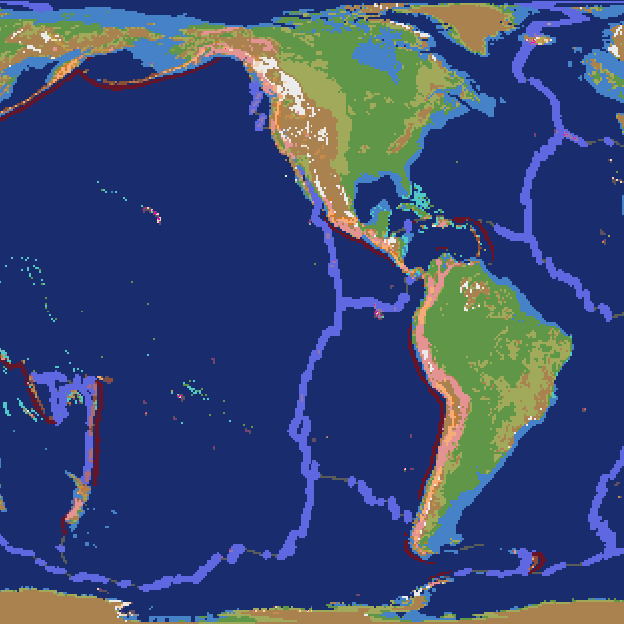
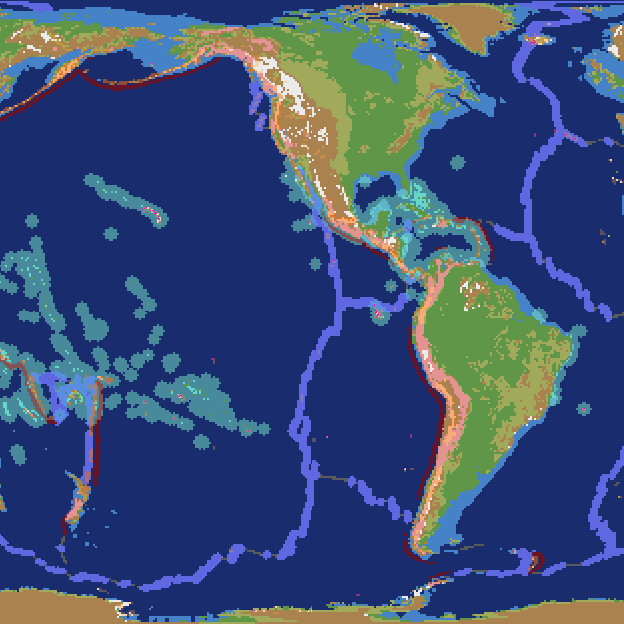
fix: ocean atolls

diff --git a/src/main/java/net/yazloysasha/tfcrealworld/mixin/world/region/ChooseBiomesMixin.java b/src/main/java/net/yazloysasha/tfcrealworld/mixin/world/region/ChooseBiomesMixin.java
@@ -9,6 +9,7 @@ import net.dries007.tfc.world.region.Region;
 import net.dries007.tfc.world.region.RegionGenerator;
 import net.yazloysasha.tfcrealworld.util.registry.TectonicsRegistry;
 import net.yazloysasha.tfcrealworld.world.region.cache.GlobalOceanDistanceCache;
+import net.yazloysasha.tfcrealworld.world.tectonics.TectonicsMap;
 import net.yazloysasha.tfcrealworld.world.volcano.CenteredFeatureAligner;
 import org.objectweb.asm.Opcodes;
 import org.spongepowered.asm.mixin.Mixin;
@@ -21,8 +22,8 @@ import org.spongepowered.asm.mixin.injection.callback.CallbackInfo;
 /**
  * Vanilla ChooseBiomes picks every biome from the region-point fields written
  * from the maps. Adjusted inputs: hotspot shields stay off the ocean (sunken
- * shields may also cover ocean ridges), and coastal decisions read distances
- * in grid cells.
+ * shields may also cover ocean ridges), coastal decisions read distances in
+ * grid cells, and atolls stand where the tectonics map has coral reefs.
  */
 @Mixin(value = ChooseBiomes.class, remap = false)
 public class ChooseBiomesMixin {
@@ -121,6 +122,33 @@ public class ChooseBiomesMixin {
   )
   private byte tfcrealworld$saltMarshDistanceToOcean(Region.Point point) {
     return tfcrealworld$gridCellsToOcean(point);
+  }
+
+  /**
+   * Vanilla builds atolls in warm sea far enough from land, which on a real
+   * map is nearly all of the tropical ocean and almost none of its shelf. With
+   * tectonics the distance check is replaced by the {@code atolls} property:
+   * the sea where coral reefs stand. Vanilla still asks for warm water.
+   */
+  @Redirect(
+    method = "apply",
+    at = @At(
+      value = "FIELD",
+      target = "Lnet/dries007/tfc/world/region/Region$Point;distanceToLand:B",
+      opcode = Opcodes.GETFIELD
+    )
+  )
+  private byte tfcrealworld$atollDistanceToLand(
+    Region.Point point,
+    @Local(argsOnly = true) RegionGenerator.Context context
+  ) {
+    final TectonicsMap tectonics = TectonicsRegistry.get(context.generator());
+    if (tectonics == null) {
+      return point.distanceToLand;
+    }
+    return tectonics.classAtGrid(point.x, point.z).atolls()
+      ? Byte.MAX_VALUE
+      : 0;
   }
 
   @Unique

diff --git a/src/main/java/net/yazloysasha/tfcrealworld/world/tectonics/TectonicClass.java b/src/main/java/net/yazloysasha/tfcrealworld/world/tectonics/TectonicClass.java
@@ -9,6 +9,8 @@ import java.util.Locale;
  * region-point fields and vanilla {@code ChooseBiomes} picks the biome.
  * {@link #coast}: the sea reaches into the place (fjords, rias, outlet
  * glaciers, steep island coasts).
+ * {@link #atolls}: coral reefs stand in the sea here, so vanilla may build
+ * its atolls (it still asks for warm water).
  */
 public record TectonicClass(
   Boundary boundary,
@@ -16,6 +18,7 @@ public record TectonicClass(
   WaterDepth water,
   Volcanism volcanism,
   boolean coast,
+  boolean atolls,
   byte hotspot
 ) {
   public static final TectonicClass DEFAULT = new TectonicClass(
@@ -23,6 +26,7 @@ public record TectonicClass(
     LandRelief.LOWLAND,
     WaterDepth.DEEP,
     Volcanism.NONE,
+    false,
     false,
     (byte) 0
   );

diff --git a/src/main/java/net/yazloysasha/tfcrealworld/world/tectonics/TectonicLegend.java b/src/main/java/net/yazloysasha/tfcrealworld/world/tectonics/TectonicLegend.java
@@ -23,7 +23,8 @@ import org.jetbrains.annotations.Nullable;
  * [
  *   { "water": "reef" },
  *   { "boundary": "divergent", "land": "upland", "volcanism": "rift" },
- *   { "land": "mountain", "coast": true, "hotspot": 2 }
+ *   { "land": "mountain", "coast": true, "hotspot": 2 },
+ *   { "water": "shelf", "atolls": true }
  * ]
  * </pre>
  * Omitted fields use {@link TectonicClass#DEFAULT} values.
@@ -104,6 +105,7 @@ public final class TectonicLegend {
         index
       ),
       json.has("coast") && json.get("coast").getAsBoolean(),
+      json.has("atolls") && json.get("atolls").getAsBoolean(),
       (byte) hotspot
     );
   }

diff --git a/src/test/java/net/yazloysasha/tfcrealworld/test/TectonicCheckpointsTest.java b/src/test/java/net/yazloysasha/tfcrealworld/test/TectonicCheckpointsTest.java
@@ -320,6 +320,12 @@ public class TectonicCheckpointsTest implements TestSetup {
     map.put("any", p -> true);
     map.put("reef", p -> p.biome == TFCLayers.OCEAN_REEF);
     map.put(
+      "atolls",
+      p ->
+        p.biome == TFCLayers.OCEAN_ATOLLS ||
+        p.biome == TFCLayers.DEEP_OCEAN_ATOLLS
+    );
+    map.put(
       "reef_or_island",
       p -> p.biome == TFCLayers.OCEAN_REEF || p.island()
     );

diff --git a/public/text/CurseForge.md b/public/text/CurseForge.md
@@ -212,10 +212,11 @@ All maps cover the same area in an equal-area projection (e.g., Equal Earth). Th
 <li><code>water</code> — seafloor: <code>reef</code>, <code>shelf</code>, <code>ridge</code>, <code>deep</code> or <code>trench</code>.</li>
 <li><code>volcanism</code> — <code>none</code>, <code>arc</code> (subduction volcanoes), <code>rift</code> or <code>intraplate</code>.</li>
 <li><code>coast</code> — <code>true</code> for a mountain range the sea reaches into (fjords, steep island coasts): TFC's oceanic mountains.</li>
+<li><code>atolls</code> — <code>true</code> for sea where coral reefs stand: TFC builds its atolls there if the water is warm enough, and nowhere else.</li>
 <li><code>hotspot</code> — <code>0</code>, or hotspot age <code>1</code> (active) … <code>4</code> (ancient/sunken) at a shield volcano centre.</li>
 </ul>
 
-Omitted fields default to <code>none</code> / <code>lowland</code> / <code>deep</code> / <code>none</code> / <code>false</code> / <code>0</code>. Every palette index used in the PNG must have a class.<br><br>
+Omitted fields default to <code>none</code> / <code>lowland</code> / <code>deep</code> / <code>none</code> / <code>false</code> / <code>false</code> / <code>0</code>. Every palette index used in the PNG must have a class.<br><br>
 
 <b>Painting the tectonics map:</b> The mod reads only the palette index of each pixel, never its color, so pick any colors you like:<br>
 

diff --git a/README.md b/README.md
@@ -197,9 +197,10 @@ All maps cover the same area in an equal-area projection (e.g., Equal Earth). Th
 - `water` — seafloor: `reef`, `shelf`, `ridge`, `deep` or `trench`.
 - `volcanism` — `none`, `arc` (subduction volcanoes), `rift` or `intraplate`.
 - `coast` — `true` for a mountain range the sea reaches into (fjords, steep island coasts): TFC's oceanic mountains.
+- `atolls` — `true` for sea where coral reefs stand: TFC builds its atolls there if the water is warm enough, and nowhere else.
 - `hotspot` — `0`, or hotspot age `1` (active) … `4` (ancient/sunken) at a shield volcano centre.
 
-Omitted fields default to `none` / `lowland` / `deep` / `none` / `false` / `0`. Every palette index used in the PNG must have a class.
+Omitted fields default to `none` / `lowland` / `deep` / `none` / `false` / `false` / `0`. Every palette index used in the PNG must have a class.
 
 **Painting the tectonics map:** The mod reads only the palette index of each pixel, never its color, so pick any colors you like:
 

diff --git a/public/text/Modrinth.md b/public/text/Modrinth.md
@@ -197,9 +197,10 @@ All maps cover the same area in an equal-area projection (e.g., Equal Earth). Th
 - `water` — seafloor: `reef`, `shelf`, `ridge`, `deep` or `trench`.
 - `volcanism` — `none`, `arc` (subduction volcanoes), `rift` or `intraplate`.
 - `coast` — `true` for a mountain range the sea reaches into (fjords, steep island coasts): TFC's oceanic mountains.
+- `atolls` — `true` for sea where coral reefs stand: TFC builds its atolls there if the water is warm enough, and nowhere else.
 - `hotspot` — `0`, or hotspot age `1` (active) … `4` (ancient/sunken) at a shield volcano centre.
 
-Omitted fields default to `none` / `lowland` / `deep` / `none` / `false` / `0`. Every palette index used in the PNG must have a class.
+Omitted fields default to `none` / `lowland` / `deep` / `none` / `false` / `false` / `0`. Every palette index used in the PNG must have a class.
 
 **Painting the tectonics map:** The mod reads only the palette index of each pixel, never its color, so pick any colors you like:
 
